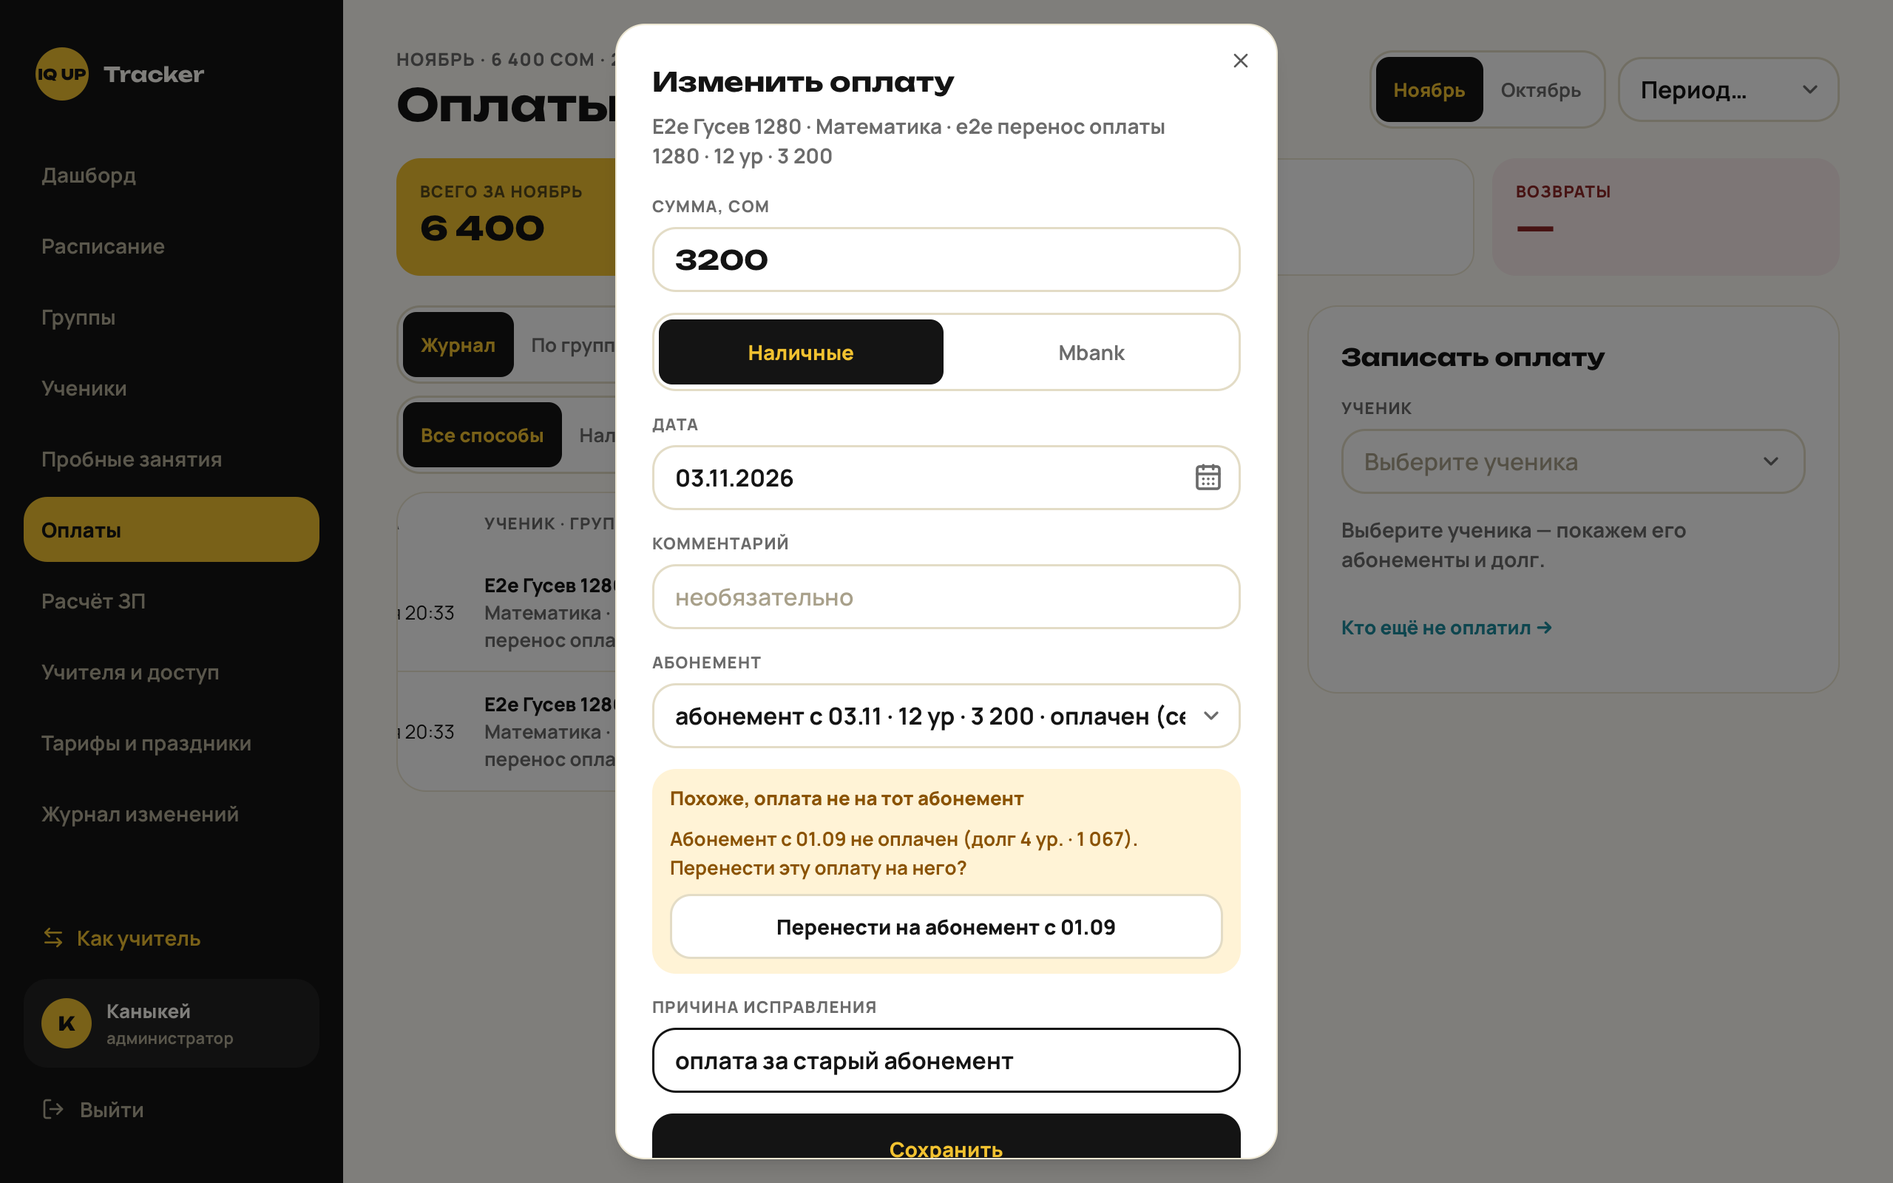
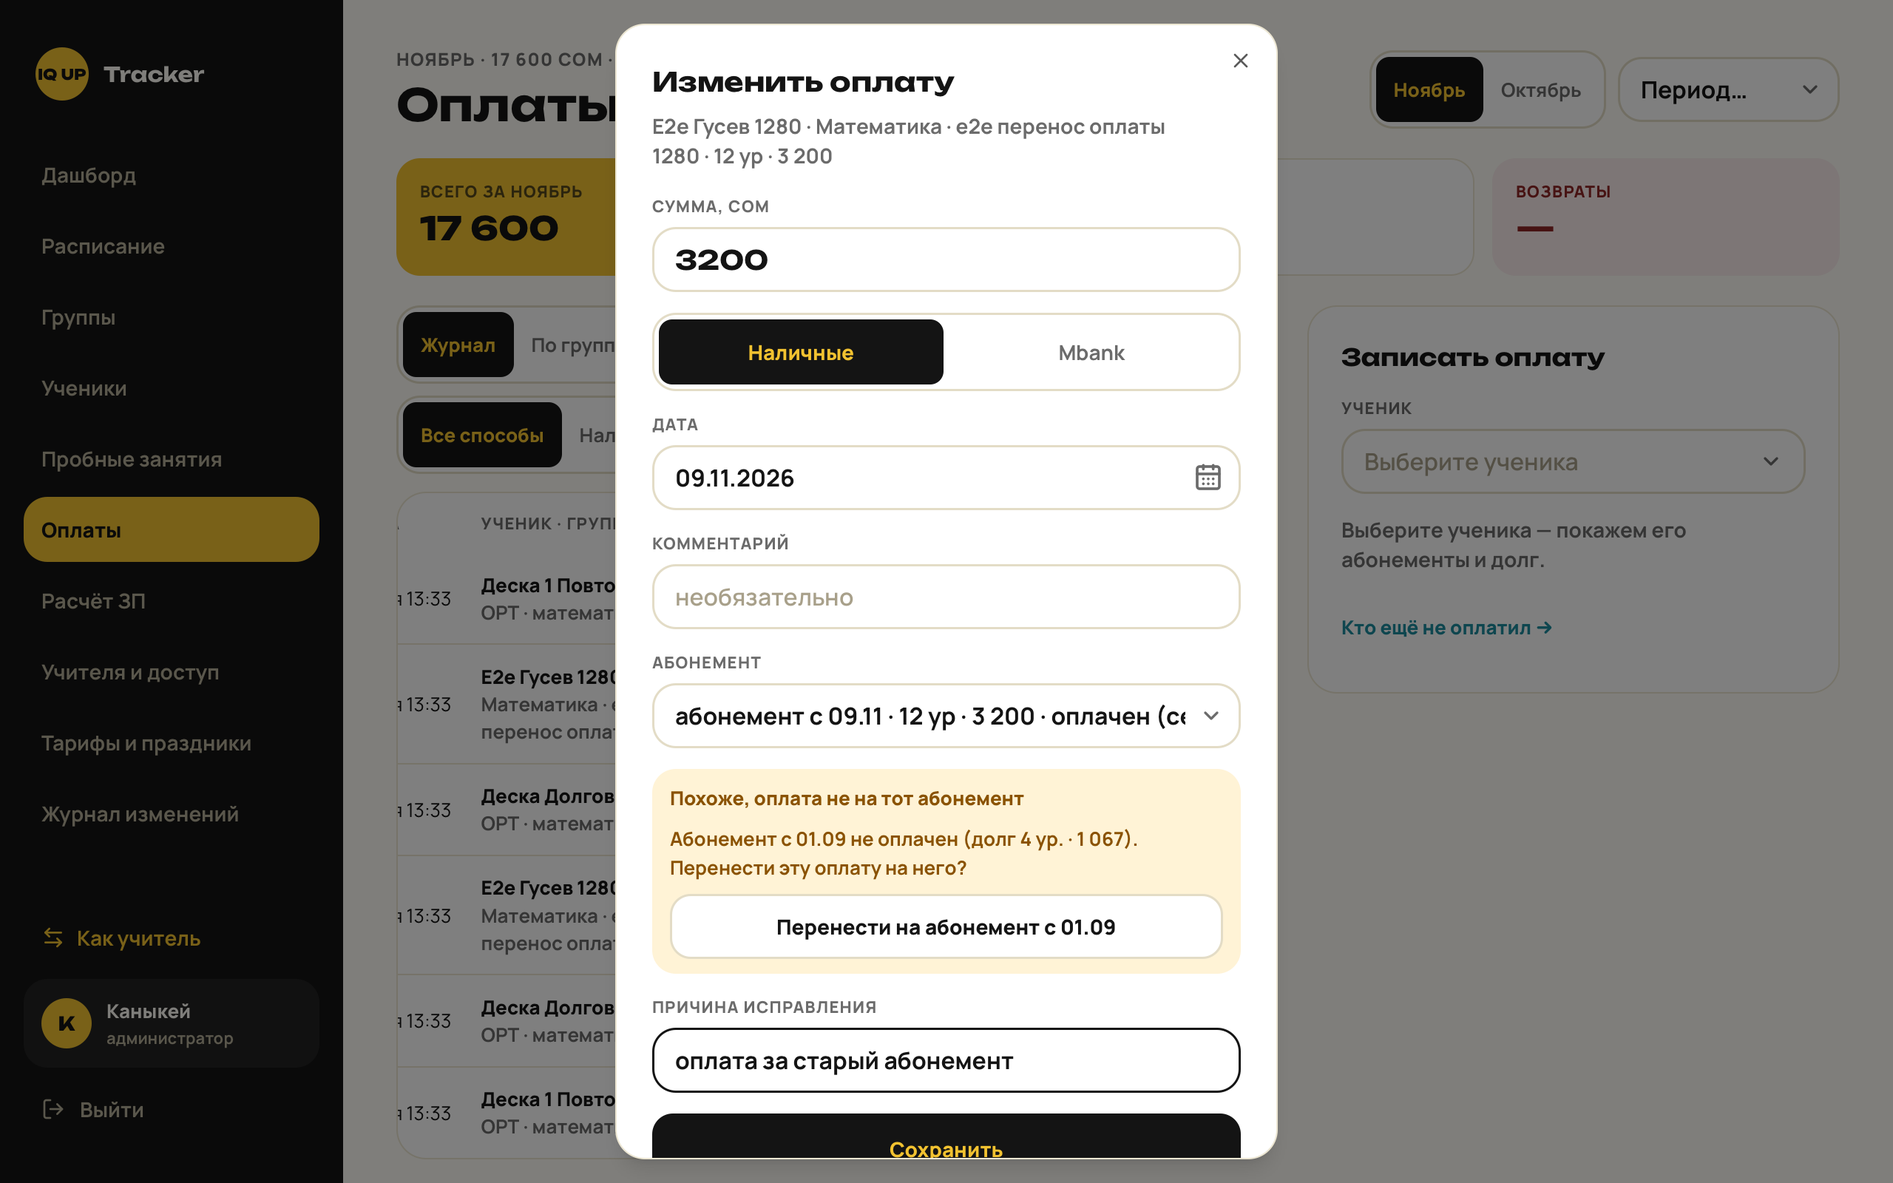
docs: И97 — израсходованный абонемент → «новый» (#127)

diff --git a/docs/05-decisions.md b/docs/05-decisions.md
@@ -229,6 +229,7 @@
 | И94 | **Оплата — на любой абонемент зачисления, которому должны; новый — только когда все оплачены** (#119, 0036; баг с прода 29.10: Ясмин, Айдин, Гусев). «Что оплачивает» (А7) перечисляет по каждому зачислению все нерефанднутые абонементы с `paidLessons < lessonsTotal` или долгом — по возрастанию даты начала («оплатить абонемент с …» / «закрыть долг · абонемент с …» / «доплата · абонемент с … · осталось …»), затем «новый абонемент»; по умолчанию — самый старый, которому должны. «Новый абонемент» при неоплаченном — «Похоже на повтор» с чекбоксом «Да, это новый абонемент». Оплату, ушедшую не на тот абонемент, админ переносит «⋯ → Изменить оплату → Абонемент» (`update_payment(p_subscription_id)`: только абонемент того же зачисления, не возврат и не на возвращённый, с причиной, журнал «оплата перенесена на абонемент с …»). Опустевший после переноса абонемент не удаляется сам. | ✅ (Кайрат, #119) |
 | И95 | **«Изменить оплату»: абонементы подписаны по состоянию, подсказка с переносом** (#122; прод 03.11 — Гусев Артём, оплата дважды «сохранена» на тот же абонемент). Варианты поля «Абонемент» (`moveTargets`) — по текущему состоянию: «· долг 7 400» (долг уроками или ничего не оплачено), «· не хватает 2 400» (частично), «· оплачен»; абонемент оплаты — «(сейчас)». Если другой живой абонемент зачисления не оплачен полностью (исчерпанный — только при долге уроками), под полем жёлтая панель «Похоже, оплата не на тот абонемент» с кнопкой «Перенести на абонемент с DD.MM» (старейший; `moveHint`), кнопка лишь выставляет селект; панель скрыта, когда выбран должный абонемент; «Сохранить» не блокируется. При выборе другого абонемента — итог переноса (`moveImpactText`): «Оплата перейдёт на абонемент с 22.09 — долг по нему 1 480; абонемент с 29.10 останется оплачен». БД не меняется (`update_payment(p_subscription_id)`, 0036). | #122 |
 | И96 | **«Изменить абонемент» — любой нерефанднутый абонемент зачисления, по умолчанию новейший** (#124; прод 03.11, Гусев Артём — старый абонемент 20 ур · 7 400 заведён ошибочно, реально 16 · 5 920). В диалоге первым полем «Абонемент» (если живых абонементов больше одного): подписи как в «Изменить оплату» (И95) — «абонемент с 22.09 · 20 ур · 7 400 · не хватает 1 480», новейший первым и выбран по умолчанию. Смена выбора перезаполняет «Уроков» / «Цена» и «Сейчас: …» значениями выбранного, предпросмотр — для него. Один абонемент — поля нет, как раньше. БД не менялась (`update_subscription` и превью уже принимали любой живой абонемент). | #124 |
+| И97 | **Израсходованный абонемент → по умолчанию «новый абонемент»** (#127; уточняет И94; прод 09.11 — три ученицы 7 класса: пакет 12 ур · 3 200 выбран, использовано 20, оплата 3 200 ушла в старый — «Оплачено 24 из 12»). Если у текущего абонемента зачисления `lessonsUsed ≥ lessonsTotal` (пакет выбран, с долгом или без), «Что оплачивает» по умолчанию — «новый абонемент» (`defaultPayTarget`); при долге подпись «новый абонемент · долг N ур. перейдёт в него» (перенос — И37). «Закрыть долг · абонемент с … · N сом» остаётся в списке, но не по умолчанию. «Похоже на повтор» у «нового» в этом случае не говорит «… не оплачен — оплатите его»: сам израсходованный текущий абонемент не считается должным для «нового» (более старый неоплаченный — по-прежнему считается, И94); повтор суммы за `REPEAT_DAYS` остаётся. Если на существующий пакет вносят сумму с `paid > price_final`, под суммой — «Абонемент уже оплачен полностью, лишние N сом лучше записать в новый абонемент» (при частично оплаченном — «Сумма больше стоимости абонемента, …») с кнопкой «Записать в новый абонемент» (цель → «новый», сумма остаётся); не блокирует; только пакеты уроков. Частично выбранный абонемент (`lessonsUsed < lessonsTotal`) — как в И94. БД не менялась. | ✅ (Кайрат, 2026-11-09) |
 | К14 | **Выборочные дни** в обычных группах не нужны: математика — строго 3 ч в неделю, все дни группы. Индивидуальные с «выборочными днями» — это расписание самой группы (один ученик). Продлёнка — график ученика (К13). | ✅ (WhatsApp 27.10) |
 
 ## Открытые вопросы
@@ -306,3 +307,4 @@
 - 2026-10-27 — И92 (#110, К10: учитель исправляет отметки своего проведённого занятия в открытом периоде — `teacher_correct_attendance`, комментарий необязателен, журнал «исправил учитель»; «Попросить исправить» убрано, И52 — только для старых запросов).
 - 2026-11-03 — И95 (#122): «Изменить оплату» — абонементы по состоянию, подсказка «перенести на абонемент с долгом».
 - 2026-11-03 — И96 (#124): «Изменить абонемент» — любой живой абонемент зачисления, по умолчанию новейший.
+- 2026-11-09 — И97 (#127): израсходованный абонемент → «Записать оплату» по умолчанию «новый абонемент», долг переходит в него (И37); предупреждение о переплате.

diff --git a/CLAUDE.md b/CLAUDE.md
@@ -36,7 +36,7 @@ Vite + React 19 + TypeScript (strict) · TanStack Router + Query · Tailwind v4 
 8. Время — `timestamptz` в БД, отображение в `Asia/Bishkek` (UTC+6, без летнего времени).
 
 ## Правила кода
-- Логика расчёта ЗП и баланса — чистые функции `src/features/payroll/calc.ts`, `src/features/payments/balance.ts` с тестами. Та же логика в SQL-view (`v_payroll_preview`, `v_student_balance`) — при изменении менять оба места и тест, сверяющий их на одном сиде (`tests/integration/payroll.test.ts`, `balance.test.ts`). Оплаты пишет только админ через RPC `record_payment` / `buy_subscription` / `refund_subscription` (0016); «Что оплачивает» — `payOptions` (`model.ts`): все абонементы зачисления, которому должны, затем «новый» (И94, #119); размер нового абонемента — `p_lessons` (1 … 2 × пакета, цена `round(package_price × N / lessons_in_package)`, И89, 0030) в `buy_subscription` / `enroll_student` / `enroll_trial`, UI — `LessonsField`; своя цена — `p_price` (1 … 1 000 000, `null` — `subscription_default_price`: индивидуальные — 12 **часов** за цену пакета, 1,5 ч → 8 занятий по 900, К11; И91, 0033) там же и в `transfer_student`, UI — `PriceField`; внесённый абонемент админ меняет с причиной и предпросмотром ЗП / баланса — `update_subscription` / `subscription_update_preview` / `subscription_balance_preview` (`subscriptions_guard` пускает правку размера и цены только из неё), «⋯ → Изменить абонемент»; ошибочную оплату админ удаляет / правит с причиной — `delete_payment` / `update_payment` (0026, Г10; перенос на другой абонемент зачисления — `p_subscription_id`, 0036, И94; `payments_guard` пускает UPDATE/DELETE только из них); перенос/возврат при выходе из группы — `transfer_student` / `withdraw_enrollment` / `delete_enrollment` (#81, `payments.kind = transfer` — пара записей, в итогах А7 не считается). Авансы — админ и бухгалтер через `issue_advance` / `delete_payroll_adjustment` (0022, И53); «К выплате» = начислено − авансы (`v_payroll_preview.to_pay` ↔ `calc.ts` `toPay`).
+- Логика расчёта ЗП и баланса — чистые функции `src/features/payroll/calc.ts`, `src/features/payments/balance.ts` с тестами. Та же логика в SQL-view (`v_payroll_preview`, `v_student_balance`) — при изменении менять оба места и тест, сверяющий их на одном сиде (`tests/integration/payroll.test.ts`, `balance.test.ts`). Оплаты пишет только админ через RPC `record_payment` / `buy_subscription` / `refund_subscription` (0016); «Что оплачивает» — `payOptions` (`model.ts`): все абонементы зачисления, которому должны, затем «новый» (И94, #119); израсходованный абонемент → по умолчанию «новый» (`defaultPayTarget`, И97, #127); размер нового абонемента — `p_lessons` (1 … 2 × пакета, цена `round(package_price × N / lessons_in_package)`, И89, 0030) в `buy_subscription` / `enroll_student` / `enroll_trial`, UI — `LessonsField`; своя цена — `p_price` (1 … 1 000 000, `null` — `subscription_default_price`: индивидуальные — 12 **часов** за цену пакета, 1,5 ч → 8 занятий по 900, К11; И91, 0033) там же и в `transfer_student`, UI — `PriceField`; внесённый абонемент админ меняет с причиной и предпросмотром ЗП / баланса — `update_subscription` / `subscription_update_preview` / `subscription_balance_preview` (`subscriptions_guard` пускает правку размера и цены только из неё), «⋯ → Изменить абонемент»; ошибочную оплату админ удаляет / правит с причиной — `delete_payment` / `update_payment` (0026, Г10; перенос на другой абонемент зачисления — `p_subscription_id`, 0036, И94; `payments_guard` пускает UPDATE/DELETE только из них); перенос/возврат при выходе из группы — `transfer_student` / `withdraw_enrollment` / `delete_enrollment` (#81, `payments.kind = transfer` — пара записей, в итогах А7 не считается). Авансы — админ и бухгалтер через `issue_advance` / `delete_payroll_adjustment` (0022, И53); «К выплате» = начислено − авансы (`v_payroll_preview.to_pay` ↔ `calc.ts` `toPay`).
 - Доступ к БД — `supabase-js` из `src/features/*/api.ts`, вход валидируется `zod`. Каждая новая таблица создаётся сразу с RLS-политиками и pgTAP-тестом «учитель не видит чужое».
 - Миграции только вперёд, имена `NNNN_slug.sql`; никаких правок уже применённых миграций. После миграции — `supabase gen types` и коммит `types.gen.ts`.
 - Экраны за входом — `src/routes/_app/*` (сессия обязательна); роль — `requireRole(context.auth, '…'[, '…'])` (любая из ролей) в `beforeLoad` → страница 403. Пункты меню по ролям — `src/components/shell/nav.ts`, сессия — `useSession()` из `src/lib/auth.tsx`, время — только `useNow()` из `src/lib/now.ts`.
